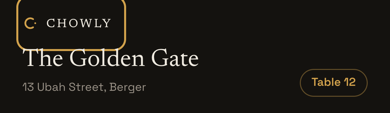
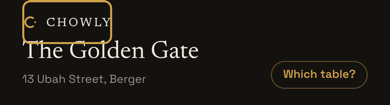
docs: the nine fixes verified on production, both engines
A table of every case the review raised and what production now does:
the splash only on a real cold start, the landing inert beneath it, the
header back to its pinned block, and the focus ring drawn inside the
target where it cannot be clipped.

diff --git a/docs/AI-LOG.md b/docs/AI-LOG.md
@@ -2123,3 +2123,21 @@ after rather than argued.
 - Two more from the review, both taken: the cookie is written with `Secure` over HTTPS,
   and the stale comment in `lib/splash.ts` claiming the server decides the splash was
   corrected, since an inline script decides it now.
+
+### The nine fixes, verified on production
+
+Every one re-tested against https://chowly-theta.vercel.app under iPhone 13 emulation,
+in Chromium and in WebKit, in a fresh browser context per case. Both engines agreed on
+every line.
+
+| Case | Result |
+|---|---|
+| Deep link to `/waiter`, then tap the lockup home | The splash never appears; the door arrives |
+| Deep link to `/menu`, then tap the lockup home | The splash never appears; the room is already at full opacity |
+| A real cold start at `/` | At the first animation frame the splash is in the DOM, `display: flex`, visible |
+| While the splash is up | The landing carries `inert`; two presses of Tab leave the focus on the body and Enter does nothing |
+| When the splash settles | `inert` released, the cookie written |
+| Going home again in the same document | The splash never appears |
+| Reduced motion | Progress climbs and never restarts: 0.00, 0.55, 1.00 in Chromium; 0.00, 0.30, 0.55, 1.00 in WebKit |
+| The header | 104.5px tall, the title's top at y=40, the link 90 by 44 at the 22px gutter, `display: flex`, identical in both engines |
+| The focus ring | Chromium: reached by Tab, `:focus-visible` matches, `solid rgb(210, 162, 76)`, drawn at y=2, not clipped. WebKit: Tab does not reach links, which is macOS Safari's own setting; the rule applies when the link is focused |

diff --git a/docs/screens/README.md b/docs/screens/README.md
@@ -111,3 +111,7 @@ nothing lost, and `states/home-focus` is the header with the lockup focused from
 keyboard, its ring in ochre. `states/warm-*.png` are the first frames of a warm start,
 the door already there and the splash never displayed; the measurement behind that is in
 the AI log, taken at the first animation frame rather than guessed from a screenshot.
+
+`states/home-focus.png` is the header with the lockup focused from the keyboard on
+production: the ochre ring drawn inside the 44px target, which is the area that is
+actually tappable, rather than a tighter ring that would lie about it.
